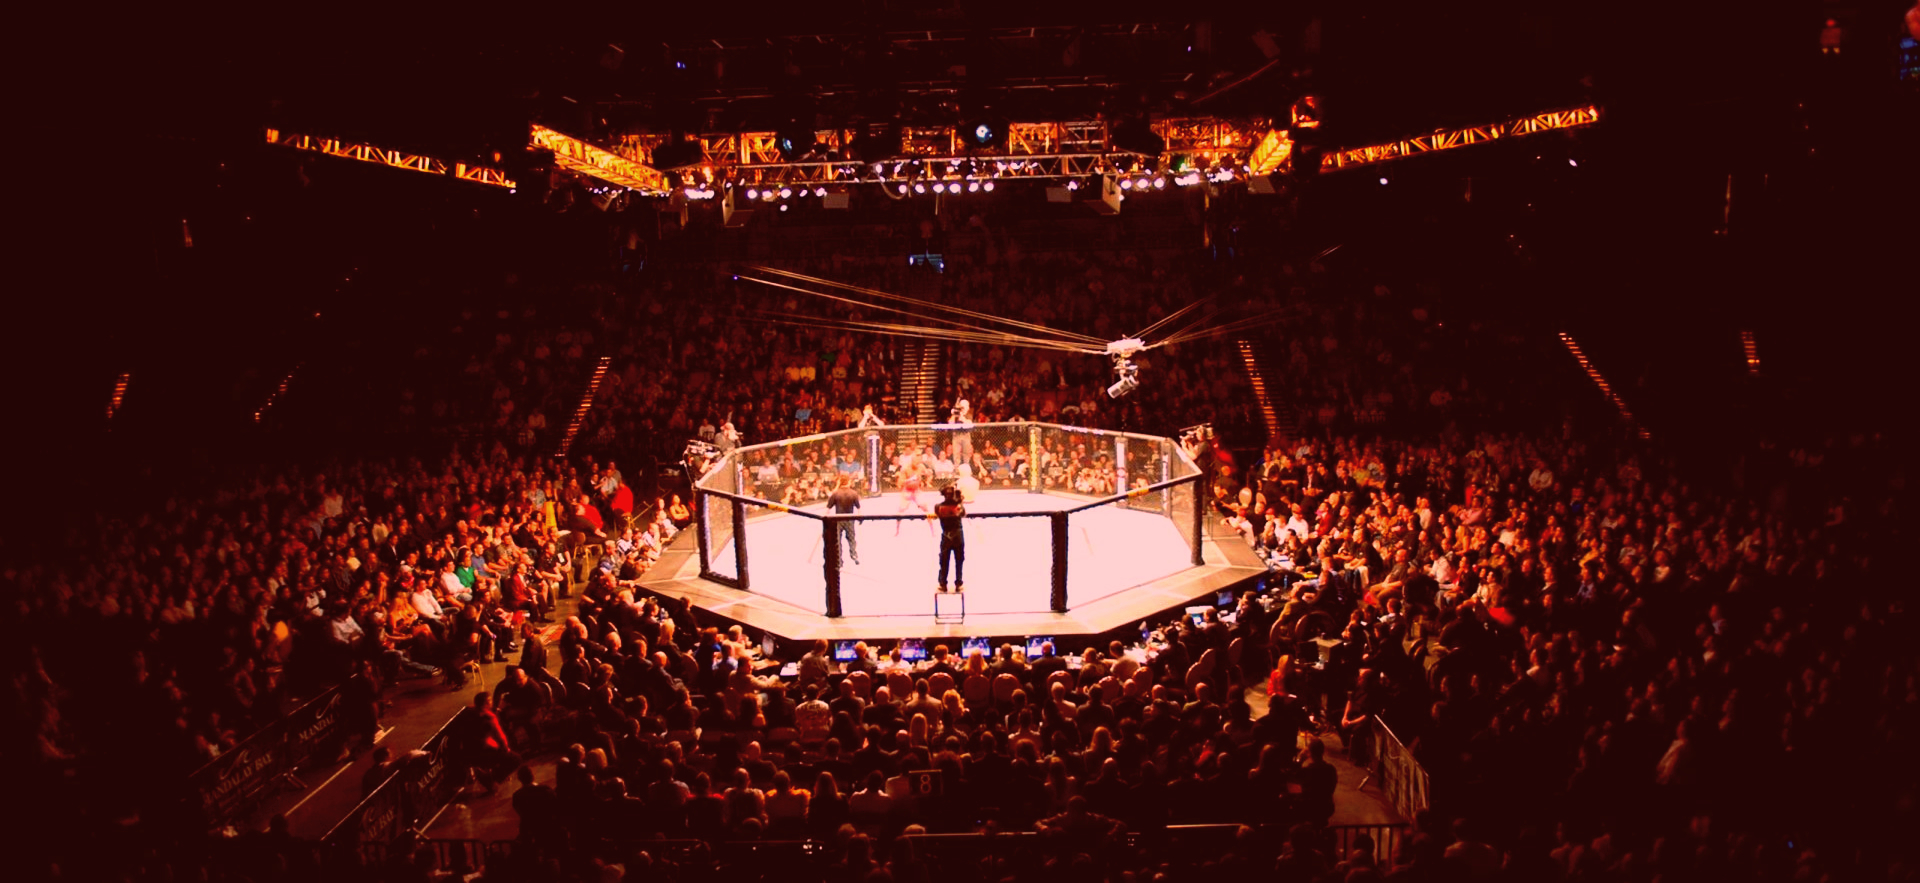
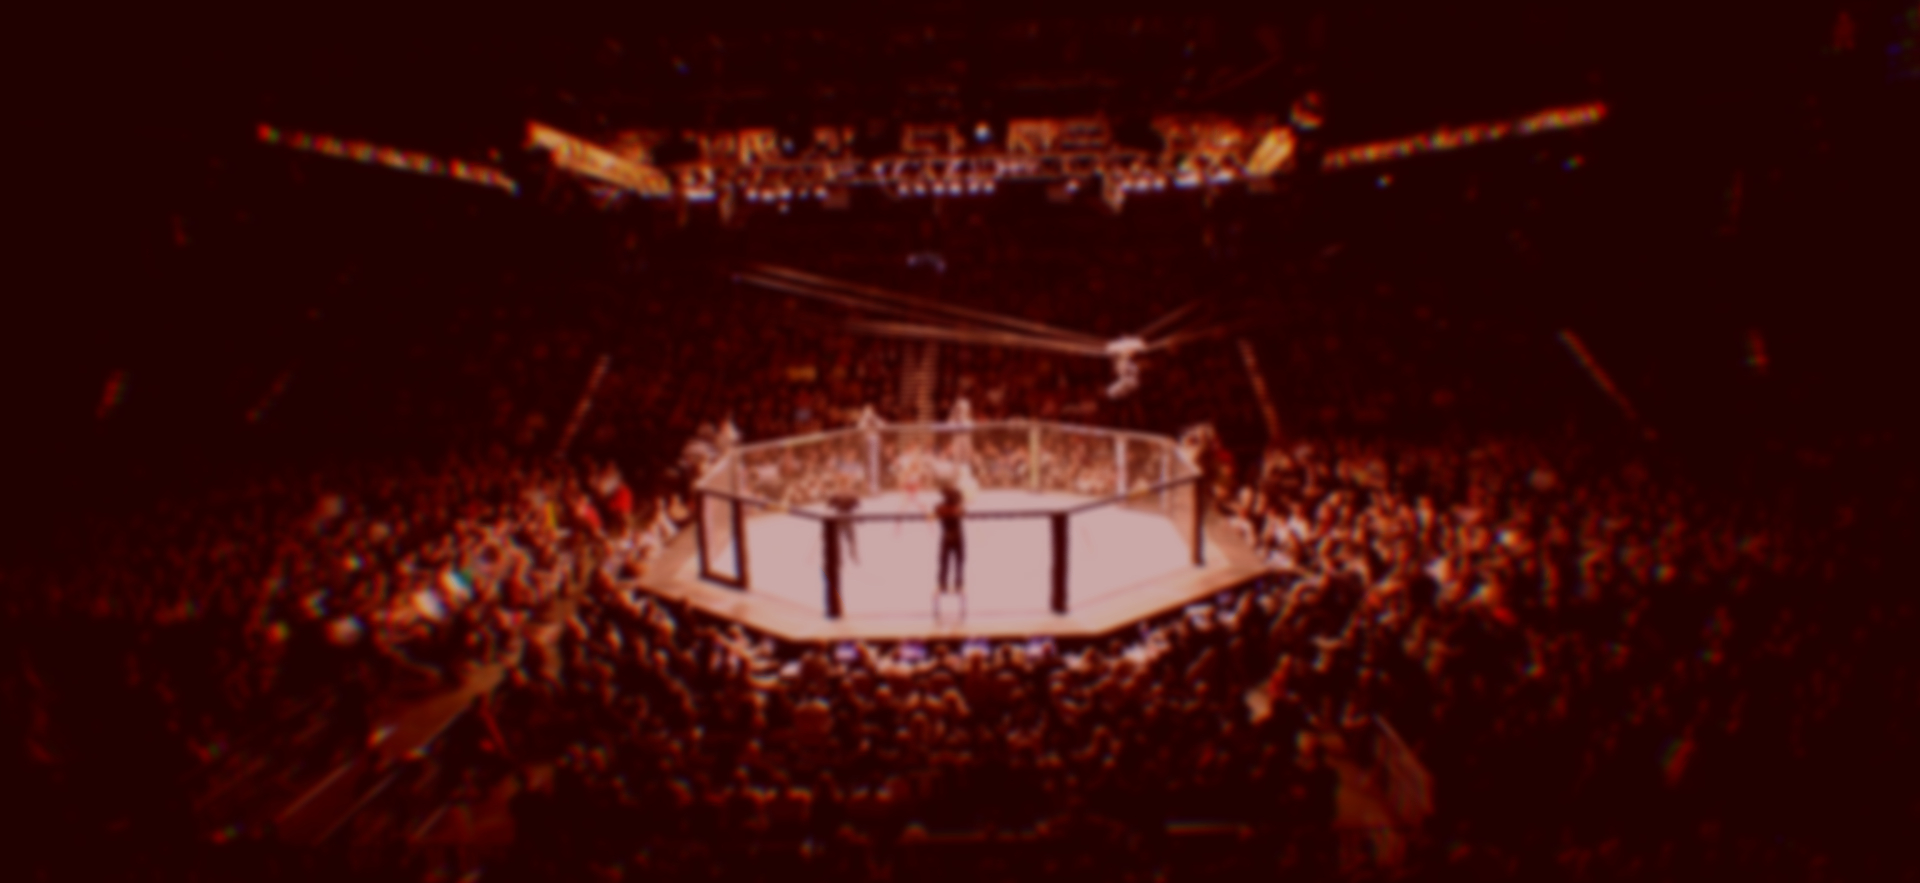
배경이미지 index.css에서 넣기.

diff --git a/src/components/main/Contents.js b/src/components/main/Contents.js
@@ -1,0 +1,48 @@
+import React from 'react';
+import { Link } from 'react-router-dom';
+import styled from 'styled-components';
+import { ColorCollection } from '../../utils/ColorCollection';
+import { FontWeight } from '../../utils/FontWeight';
+
+const ContentsBlock = styled.div`
+    min-height: calc(100vh - 80px);
+`;
+const MainDescription = styled.div`
+    padding-top: 140px;
+    text-align: center;
+    color: white;
+    font-size: 30px;
+    font-weight: ${FontWeight.LGIHT};
+    padding-bottom: 20px;
+`;
+const Circle = styled.div`
+    background-color:${ColorCollection.CRIMSON_RED};
+    width:300px;
+    height:300px;
+    opacity: 0.8;
+    border-radius:150px;
+    text-align:center;
+    margin:0 auto;
+`;
+const Nav = styled(Link)`
+    font-size:20px;
+    font-weight: ${FontWeight.NORMAL};
+    text-decoration: none;
+    color: white;
+    vertical-align:middle;
+    line-height:300px;
+    &:hover {
+        color: ${ColorCollection.CRIMSON_RED};
+    }
+`;
+
+const Contents = () => {
+    return (
+        <ContentsBlock>
+            <MainDescription>FIND MMA FIGHTER'S INFO AND WIN THE BAT</MainDescription>
+            <Circle><Nav to="/search">SEARCH YOUR FIGHTER</Nav></Circle>
+        </ContentsBlock>
+    );
+};
+
+export default Contents;

diff --git a/src/components/common/Nav.js b/src/components/common/Nav.js
@@ -1,7 +1,8 @@
 import React from 'react';
 import { Link } from 'react-router-dom';
 import styled from 'styled-components';
-import { ColorCollection } from '../../color/ColorCollection';
+import { ColorCollection } from '../../utils/ColorCollection';
+import { FontWeight } from '../../utils/FontWeight';
 
 const NavWrapper = styled.div`
     background-color: ${ColorCollection.CRIMSON_RED};
@@ -12,7 +13,7 @@ const NavWrapper = styled.div`
 `;
 const NavToMain = styled(Link)`
     font-size: 30px;
-    font-weight: bold;
+    font-weight: ${FontWeight.BOLD};
     font-style: italic;
     padding: 0px 10px 0px 10px;
     color: inherit;
@@ -24,7 +25,7 @@ const NavToMain = styled(Link)`
 const NavItems = styled(Link)`
     font-size: 15px;
     align-content: center;
-    font-weight: 500;
+    font-weight: ${FontWeight.NORMAL};
     padding: 0px 3px 0px 3px;
     float: right;
     color: inherit;

diff --git a/src/components/common/Footer.js b/src/components/common/Footer.js
@@ -1,16 +1,21 @@
 import React from 'react';
 import styled from 'styled-components';
 import GithubMark from '../../images/GitHub-Mark.svg';
+import { ColorCollection } from '../../utils/ColorCollection';
+import { FontWeight } from '../../utils/FontWeight';
+
 
 const FooterWrapper = styled.div`
-    background-color: black;
+    background-color: rgba(0,0,0,0.5);
     width: 100%;
+    height: 30px;
 `;
 const Profile = styled.div`
     padding: 5px;
     color: white;
     font-size: 15px;
     text-align: center;
+    font-weight: ${FontWeight.LIGHTER};
 `;
 
 const Footer = () => {

diff --git a/src/pages/Main.js b/src/pages/Main.js
@@ -1,13 +1,13 @@
 import React from 'react';
-import Footer from '../components/Footer/Footer';
-import Nav from '../components/Header/Nav';
-import Introduction from '../components/Header/Introduction';
+import Footer from '../components/common/Footer';
+import Nav from '../components/common/Nav';
+import Contents from '../components/main/Contents';
 
 const Main = () => {
     return (
         <>
             <Nav />
-            <Introduction />
+            <Contents />
             <Footer />
         </>
     );

diff --git a/src/pages/About.js b/src/pages/About.js
@@ -1,7 +1,6 @@
 import React from 'react';
-import Footer from '../components/Footer/Footer';
-import Nav from '../components/Header/Nav';
-import Introduction from '../components/Header/Introduction';
+import Footer from '../components/common/Footer';
+import Nav from '../components/common/Nav';
 
 const About = () => {
     return (

diff --git a/src/index.css b/src/index.css
@@ -5,7 +5,8 @@ body {
     sans-serif;
   -webkit-font-smoothing: antialiased;
   -moz-osx-font-smoothing: grayscale;
-  background-color: black;
+  background: url(./images/ufc_octagon.jpg) no-repeat center center fixed; 
+  background-size: cover;
 }
 code {
   font-family: source-code-pro, Menlo, Monaco, Consolas, 'Courier New',

diff --git a/src/utils/ColorCollection.js b/src/utils/ColorCollection.js
@@ -1,4 +1,5 @@
 export const ColorCollection = {
     CRIMSON_RED: '#d20a0a',
-    GOLD: '#d2ae4b'
+    GOLD: '#d2ae4b',
+    DARK_GRAY: '#19191e'
 };

diff --git a/src/utils/FontWeight.js b/src/utils/FontWeight.js
@@ -1,0 +1,6 @@
+export const FontWeight = {
+    BOLD: 'bold',
+    NORMAL: '500',
+    LIGHT: '400',
+    LIGHTER: '300'
+};
